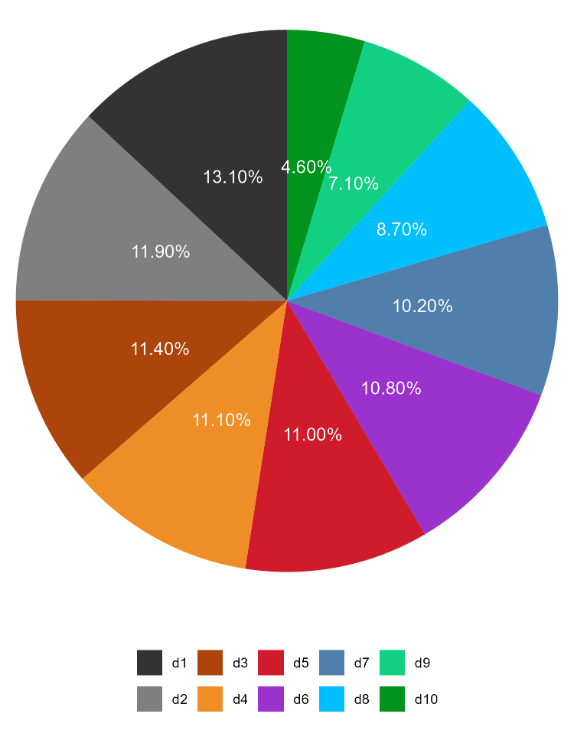
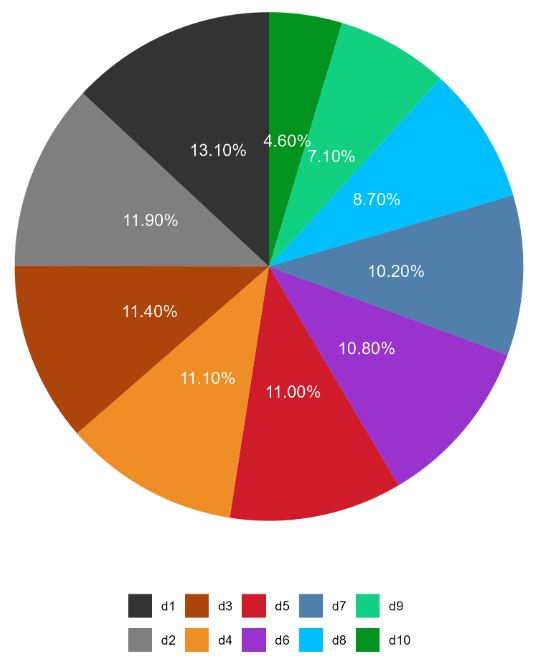
adjust Fig3

diff --git a/paper/paper.md b/paper/paper.md
@@ -121,7 +121,7 @@ In terms of outputs, activating the saveOutput parameter enables the function to
 The function can also generate damage maps and animations by enabling the `map` and `anim` parameters, respectively. These visualizations, created using the rmap package, are extensively documented on the [rmap website]( https://jgcri.github.io/rmap/). 
 Figure 2 illustrates a representative example of the outputs generated by the `calc_hap_impacts` function.
 
-![Premature deaths per 100.000 inhabitants attributable to household air pollution in 2050]( map_base_2050.png)
+![Premature deaths per 100.000 inhabitants attributable to household air pollution in 2050](map_base_2050.png)
 
 The package includes an additional function, `calc_ResidEm_grp`, which quantifies the contribution of within-region consumer groups (e.g., income deciles) to emissions of various pollutants driving household air pollution (HAP). 
 Results are categorized by GCAM region, year, and pollutant. Users can customize the analysis by specifying the desired region, time period, and pollutant through adjustable parameters. 
@@ -130,7 +130,7 @@ Time periods span from 2020 to 2100, in 10-year intervals. A full list of pollut
 This functionality supports targeted assessments of how different consumer groups contribute to HAP emissions within specific contexts, offering valuable insights for research and policy development. 
 Figure 3 showcases a representative example of the outputs generated by the `calc_ResidEm_grp` function.
 
-![Direct BC emissions from the residential sector in India in 2050 by income decile](example_gr.png)
+![Direct BC emissions from the residential sector in India in 2050 by income decile](example_gr.PNG)
 
 # Acknowledgements
 This research is supported by the European Union’s Horizon research program under grant agreement 101060679 (GRAPHICS project); 
